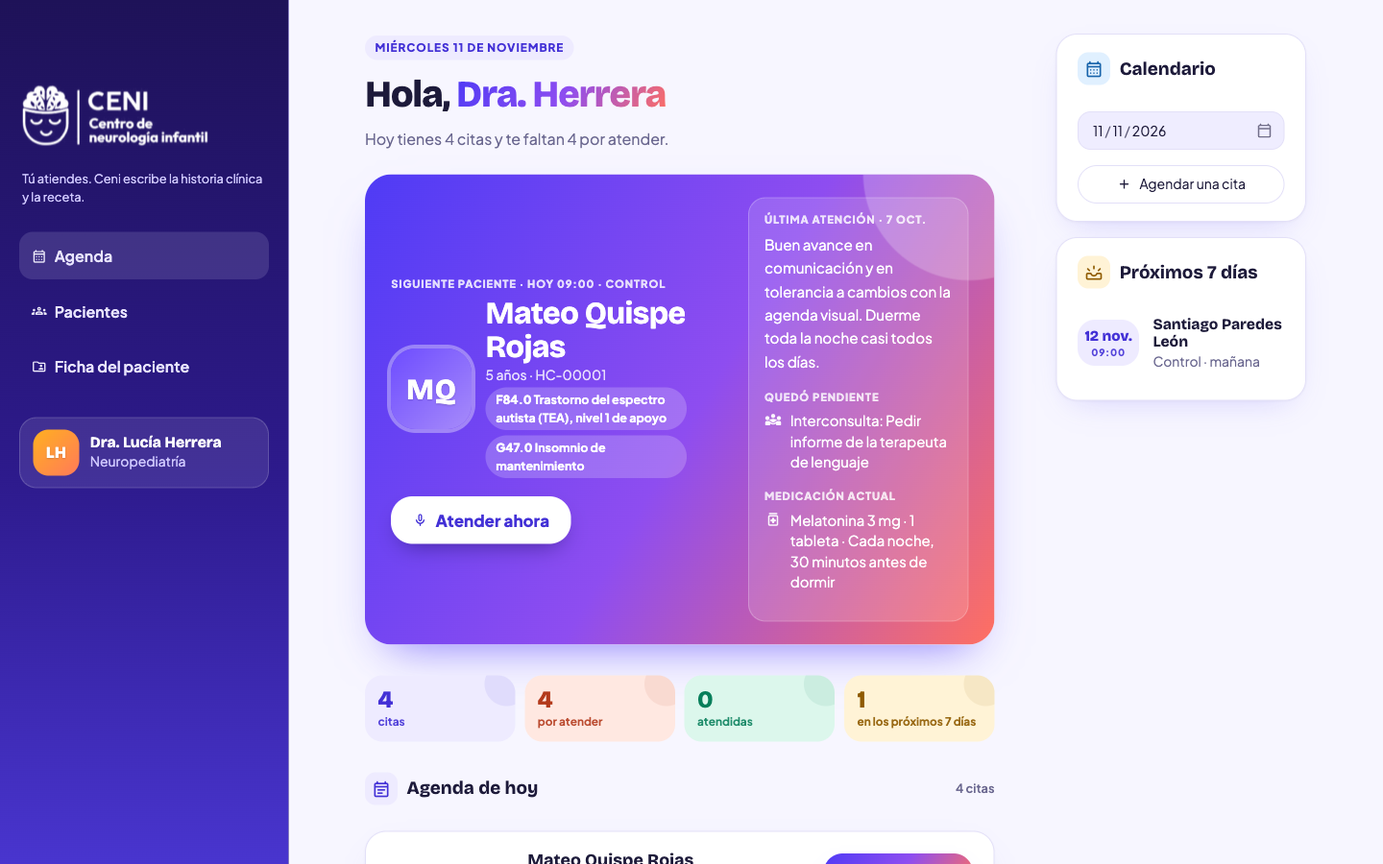
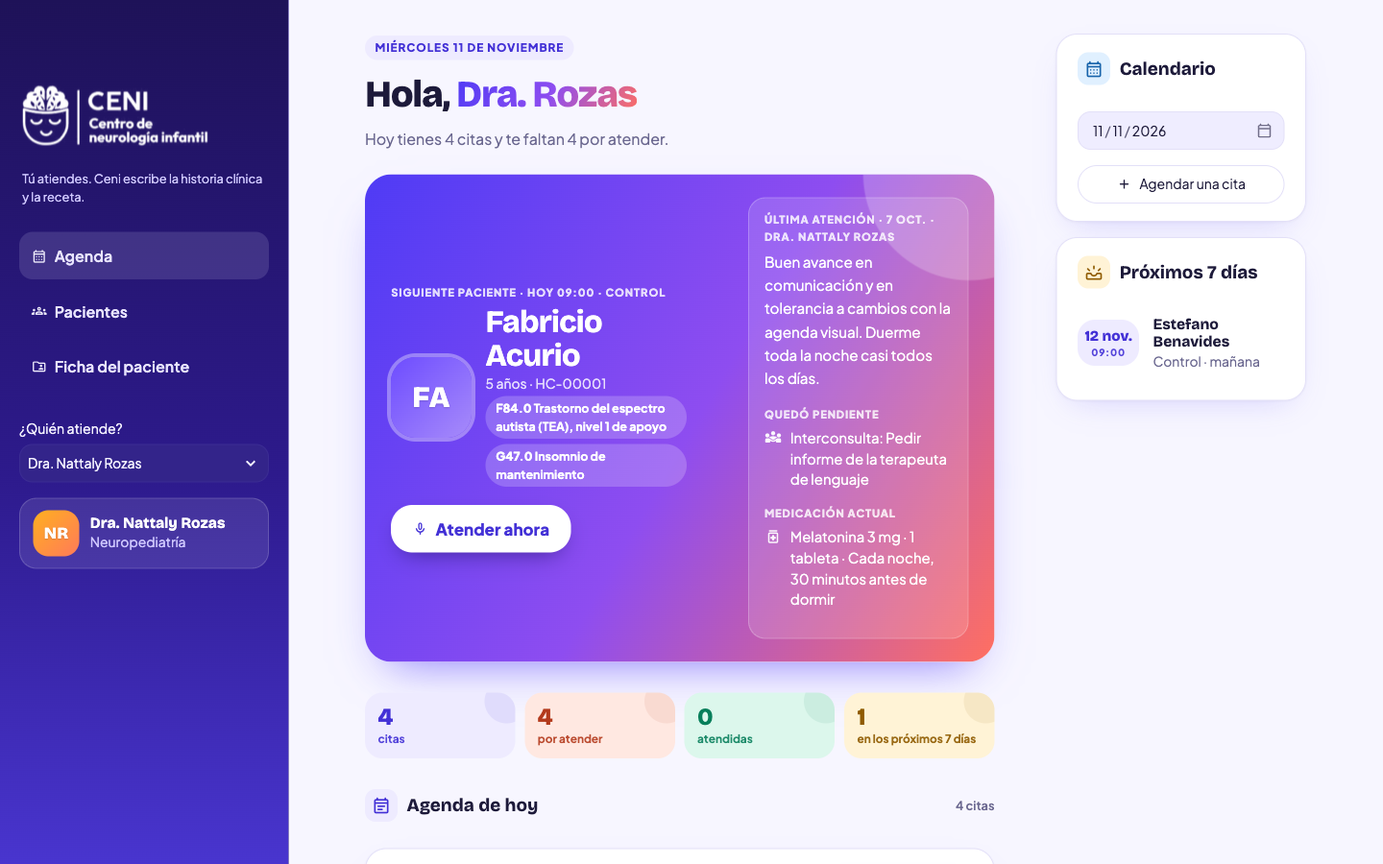
Dos profesionales con su agenda (neuropediatra y odontólogo para pacientes especiales) y nombres nuevos
- La barra lateral elige quién atiende; las citas tienen medico_id y la
  historia clínica es una sola para todo el centro.
- La IA recibe la especialidad de quien atiende y el vocabulario para
  Whisper sale de cada profesional.
- El borrador recuerda de quién es: al cambiar de profesional se oculta,
  no se borra.
- Pacientes, guiones y capturas con los nombres nuevos (todos inventados).

diff --git a/backend/db.py b/backend/db.py
@@ -5,7 +5,7 @@ Tablas:
 - historias: la historia clínica acumulada de cada paciente (JSON validado por Pydantic).
 - atenciones: cada consulta, con su transcripción, su nota, su receta (JSON),
   quién la firmó y cuándo, y cuándo autorizó la familia la grabación.
-- citas: la agenda del médico.
+- citas: la agenda de cada profesional del centro (medico_id).
 - transcripciones: registro de cada vez que se procesa una consulta (para el límite semanal).
 
 Al arrancar, si la base no existe, se crea con los pacientes inventados de
@@ -24,7 +24,7 @@ CARPETA_DATOS = Path(__file__).resolve().parent.parent / "data"
 RUTA_DB = CARPETA_DATOS / "ceni.db"
 RUTA_SEMILLA = CARPETA_DATOS / "semilla.json"
 
-VERSION_ESQUEMA = 2  # súbela cuando cambien las tablas o los esquemas: la base se vuelve a crear
+VERSION_ESQUEMA = 3  # súbela cuando cambien las tablas o los esquemas: la base se vuelve a crear
 LIMITE_SEMANAL = 10  # transcripciones por paciente en los últimos 7 días
 ESTADOS_CITA = ["Programada", "Atendida", "No asistió"]
 
@@ -62,7 +62,8 @@ CREATE TABLE IF NOT EXISTS citas (
     fecha TEXT NOT NULL,
     hora TEXT NOT NULL,
     tipo TEXT NOT NULL,            -- Primera vez / Control
-    estado TEXT NOT NULL DEFAULT 'Programada'
+    estado TEXT NOT NULL DEFAULT 'Programada',
+    medico_id INTEGER NOT NULL DEFAULT 1   -- de quién es la cita (ver "medicos" en la semilla)
 );
 CREATE TABLE IF NOT EXISTS transcripciones (
     id INTEGER PRIMARY KEY AUTOINCREMENT,
@@ -103,7 +104,7 @@ def crear_base(desde_cero: bool = False) -> None:
 
 def _cargar_semilla(con: sqlite3.Connection) -> None:
     semilla = _semilla()
-    medico = semilla["medico"]["nombre"]
+    medico = semilla["medicos"][0]["nombre"]  # las atenciones previas son de neuropediatría
     for p in semilla["pacientes"]:
         con.execute(
             f"INSERT INTO pacientes (id, {', '.join(CAMPOS_PACIENTE)}) VALUES (?, {', '.join('?' * len(CAMPOS_PACIENTE))})",
@@ -124,14 +125,19 @@ def _cargar_semilla(con: sqlite3.Connection) -> None:
     hoy = date.today()
     for c in semilla["citas"]:  # relativas a hoy, para que la agenda del demo nunca esté vacía
         con.execute(
-            "INSERT INTO citas (paciente_id, fecha, hora, tipo) VALUES (?, ?, ?, ?)",
-            (c["paciente_id"], (hoy + timedelta(days=c["en_dias"])).isoformat(), c["hora"], c["tipo"]),
+            "INSERT INTO citas (paciente_id, fecha, hora, tipo, medico_id) VALUES (?, ?, ?, ?, ?)",
+            (c["paciente_id"], (hoy + timedelta(days=c["en_dias"])).isoformat(), c["hora"], c["tipo"], c["medico_id"]),
         )
 
 
-def medico() -> dict:
-    """El médico que usa el sistema (en el demo, uno inventado)."""
-    return _semilla()["medico"]
+def medicos() -> list[dict]:
+    """Los profesionales del centro que usan Ceni (en el demo, vienen de la semilla)."""
+    return _semilla()["medicos"]
+
+
+def medico(medico_id: int = 1) -> dict:
+    """Un profesional por su id. Si no existe, el primero."""
+    return next((m for m in medicos() if m["id"] == medico_id), medicos()[0])
 
 
 def _receta_json(receta: list[Medicamento]) -> str:
@@ -234,7 +240,7 @@ def atenciones_de(paciente_id: int) -> list[dict]:
 def guardar_atencion(
     paciente_id: int, fecha: date, transcripcion: str, nota: NotaAtencion, receta: list[Medicamento],
     historia: HistoriaClinica, firmado_por: str, consentimiento_en: str | None, cita_id: int | None = None,
-    proxima_cita: tuple[date, str] | None = None,
+    proxima_cita: tuple[date, str] | None = None, medico_id: int = 1,
 ) -> int:
     """Guarda la atención firmada, actualiza la historia y la agenda, todo en una sola transacción.
 
@@ -257,22 +263,22 @@ def guardar_atencion(
             con.execute("UPDATE citas SET estado = 'Atendida' WHERE id = ?", (cita_id,))
         if proxima_cita:
             con.execute(
-                "INSERT INTO citas (paciente_id, fecha, hora, tipo) VALUES (?, ?, ?, 'Control')",
-                (paciente_id, proxima_cita[0].isoformat(), proxima_cita[1]),
+                "INSERT INTO citas (paciente_id, fecha, hora, tipo, medico_id) VALUES (?, ?, ?, 'Control', ?)",
+                (paciente_id, proxima_cita[0].isoformat(), proxima_cita[1], medico_id),
             )
     return cursor.lastrowid
 
 
 # --- Agenda -----------------------------------------------------------------------
 
-def citas_entre(desde: date, hasta: date) -> list[dict]:
-    """Citas entre dos fechas (incluidas), con el nombre, la edad y los diagnósticos del paciente."""
+def citas_entre(desde: date, hasta: date, medico_id: int) -> list[dict]:
+    """Citas de un profesional entre dos fechas (incluidas), con el nombre, la edad y los diagnósticos del paciente."""
     with conectar() as con:
         filas = con.execute(
             """SELECT c.*, p.nombre, p.fecha_nacimiento, h.historia_json
                FROM citas c JOIN pacientes p ON p.id = c.paciente_id JOIN historias h ON h.paciente_id = p.id
-               WHERE c.fecha BETWEEN ? AND ? ORDER BY c.fecha, c.hora""",
-            (desde.isoformat(), hasta.isoformat()),
+               WHERE c.fecha BETWEEN ? AND ? AND c.medico_id = ? ORDER BY c.fecha, c.hora""",
+            (desde.isoformat(), hasta.isoformat(), medico_id),
         ).fetchall()
     return [_con_historia(dict(f)) for f in filas]
 
@@ -283,11 +289,11 @@ def obtener_cita(cita_id: int) -> dict | None:
     return dict(fila) if fila else None
 
 
-def crear_cita(paciente_id: int, fecha: date, hora: str, tipo: str) -> None:
+def crear_cita(paciente_id: int, fecha: date, hora: str, tipo: str, medico_id: int) -> None:
     with conectar() as con:
         con.execute(
-            "INSERT INTO citas (paciente_id, fecha, hora, tipo) VALUES (?, ?, ?, ?)",
-            (paciente_id, fecha.isoformat(), hora, tipo),
+            "INSERT INTO citas (paciente_id, fecha, hora, tipo, medico_id) VALUES (?, ?, ?, ?, ?)",
+            (paciente_id, fecha.isoformat(), hora, tipo, medico_id),
         )
 
 
@@ -296,13 +302,13 @@ def cambiar_estado_cita(cita_id: int, estado: str) -> None:
         con.execute("UPDATE citas SET estado = ? WHERE id = ?", (estado, cita_id))
 
 
-def proxima_cita_de(paciente_id: int) -> dict | None:
-    """La próxima cita programada del paciente, desde hoy."""
+def proxima_cita_de(paciente_id: int, medico_id: int) -> dict | None:
+    """La próxima cita programada del paciente con este profesional, desde hoy."""
     with conectar() as con:
         fila = con.execute(
-            """SELECT * FROM citas WHERE paciente_id = ? AND estado = 'Programada' AND fecha >= ?
+            """SELECT * FROM citas WHERE paciente_id = ? AND medico_id = ? AND estado = 'Programada' AND fecha >= ?
                ORDER BY fecha, hora LIMIT 1""",
-            (paciente_id, date.today().isoformat()),
+            (paciente_id, medico_id, date.today().isoformat()),
         ).fetchone()
     return dict(fila) if fila else None
 

diff --git a/app/ficha.py b/app/ficha.py
@@ -97,8 +97,8 @@ paciente_id = st.session_state["paciente_id"]  # lo cambia el selector de abajo 
 paciente = db.obtener_paciente(paciente_id)
 historia, actualizada = db.historia_de(paciente_id)
 atenciones = db.atenciones_de(paciente_id)  # de la más reciente a la más antigua
-medico = db.medico()
-proxima = db.proxima_cita_de(paciente_id)
+medico = db.medico(st.session_state.get("medico_id", 1))  # quién atiende, elegido en la barra lateral
+proxima = db.proxima_cita_de(paciente_id, medico["id"])
 
 
 def receta_pdf(a: dict) -> bytes:
@@ -109,10 +109,11 @@ def receta_pdf(a: dict) -> bytes:
 
 # Si venimos de "Atender" en la agenda, la atención queda enlazada a esa cita.
 cita = db.obtener_cita(st.session_state["cita_id"]) if st.session_state.get("cita_id") else None
-if not cita or cita["paciente_id"] != paciente_id or cita["estado"] != "Programada":
+if not cita or cita["paciente_id"] != paciente_id or cita["estado"] != "Programada" or cita["medico_id"] != medico["id"]:
     cita = None
 borrador = st.session_state.get("borrador")
-if borrador and borrador["paciente_id"] != paciente_id:
+# El borrador es de un paciente y de quien lo grabó: con otro paciente u otro profesional no se muestra (ni se borra).
+if borrador and (borrador["paciente_id"] != paciente_id or borrador["medico_id"] != medico["id"]):
     borrador = None
 
 with st.container(key="heroe-paciente"):
@@ -133,7 +134,7 @@ with st.container(key="heroe-paciente"):
 firmada = st.session_state.get("recien_firmada")
 if firmada and firmada["paciente_id"] == paciente_id:
     atencion_firmada = next((a for a in atenciones if a["id"] == firmada["atencion_id"]), None)
-    siguiente = next((c for c in db.citas_entre(date.today(), date.today())
+    siguiente = next((c for c in db.citas_entre(date.today(), date.today(), medico["id"])
                       if c["estado"] == "Programada" and c["paciente_id"] != paciente_id), None)
     with st.container(key="listo-firmada"):
         estilo.html(
@@ -232,19 +233,20 @@ with nueva_tab:
                             archivo = grabado or subido
                             audio, nombre_archivo = archivo.getvalue(), archivo.name
                         vocabulario = (
-                            f"Consulta de neuropediatría de {paciente['nombre']} con {medico['nombre']}. "
+                            f"Consulta de {medico['especialidad'].lower()} de {paciente['nombre']} con {medico['nombre']}. "
                             f"Diagnósticos: {', '.join(d.descripcion for d in historia.diagnosticos)}. "
-                            "Melatonina, metilfenidato, risperidona, TEA, TDAH, terapia ocupacional, pictogramas."
+                            f"{medico['vocabulario']}"
                         )
                         texto = transcribir(audio, nombre_archivo, vocabulario)
                     else:
                         texto = escrito.strip()
                     st.write("Armando la nota, la receta y la historia clínica…")
-                    resultado = procesar_atencion(texto, paciente, historia)
+                    resultado = procesar_atencion(texto, paciente, historia, medico)
                     estado.update(label="Listo. Revisa y firma.", state="complete", expanded=False)
                 st.session_state["borrador"] = borrador = {
                     "id": st.session_state["usos_ia"],  # cambia en cada proceso: reinicia el formulario
                     "paciente_id": paciente_id,
+                    "medico_id": medico["id"],
                     "transcripcion": texto,
                     "resultado": resultado,
                     "consentimiento_en": datetime.now().isoformat(timespec="seconds"),
@@ -378,6 +380,7 @@ with nueva_tab:
                 firmado_por=medico["nombre"], consentimiento_en=borrador["consentimiento_en"],
                 cita_id=cita["id"] if cita else None,
                 proxima_cita=(fecha_control, hora_control.strftime("%H:%M")) if agendar else None,
+                medico_id=medico["id"],
             )
             st.session_state["recien_firmada"] = {
                 "paciente_id": paciente_id,

diff --git a/ai/prompts.py b/ai/prompts.py
@@ -3,13 +3,14 @@
 Están separadas del código para poder leerlas y ajustarlas sin tocar la lógica.
 """
 
-ATENCION_SISTEMA = """Eres el asistente de documentación de Ceni, un sistema para neuropediatras en el Perú que atienden a niños con autismo (TEA), TDAH y otras condiciones del neurodesarrollo.
-Recibes la transcripción de una consulta completa (conversación entre el médico, la familia y a veces el niño, sin marcas de quién habla) y devuelves tres cosas: la nota de la atención, la receta y lo nuevo para la historia clínica.
+ATENCION_SISTEMA = """Eres el asistente de documentación de Ceni, un sistema para centros de neurología infantil en el Perú. Lo usan neuropediatras y otros profesionales del centro (por ejemplo, odontología para pacientes especiales) que atienden a niños con autismo (TEA), TDAH y otras condiciones del neurodesarrollo.
+Recibes la transcripción de una consulta completa (conversación entre el profesional, la familia y a veces el niño, sin marcas de quién habla) y devuelves tres cosas: la nota de la atención, la receta y lo nuevo para la historia clínica.
 
 Reglas:
 - Deduce quién habla por el contexto. Usa solo lo que se dijo en la consulta. No inventes síntomas, hallazgos, cifras, diagnósticos, medicamentos ni dosis. Si algo no se mencionó, deja la lista vacía, el texto vacío o el número en null.
 - Ceni documenta, no diagnostica ni receta: los diagnósticos y la receta salen solo de lo que dijo el médico.
 - La nota sigue el formato de consulta externa del MINSA: motivo de consulta, tiempo de enfermedad, relato, funciones biológicas (apetito, sed, sueño, orina, deposiciones, estado de ánimo), funciones vitales y antropometría, examen físico y neurológico, diagnósticos, plan de trabajo (exámenes auxiliares, interconsultas y terapias, indicaciones) y próximo control.
+- Adapta la nota a la especialidad del profesional que atiende: en el examen escribe el que hizo (neurológico, bucal u otro). No llenes campos de otra especialidad.
 - Funciones biológicas: escribe lo que contó la familia en pocas palabras. Pon "Conservado" solo si dijeron que está bien. Si no se habló de una, déjala vacía.
 - Signos vitales: solo números que se dijeron en voz alta (peso en kg, talla en cm, perímetro cefálico en cm, temperatura, frecuencias). No calcules el IMC: lo calcula el sistema.
 - Diagnósticos: escribe cada uno como lo dijo el médico y elige su código del catálogo CIE-10 del esquema (vacío si ninguno corresponde). Tipo: "P" si el médico lo dijo como sospecha ("probable", "a descartar"); "R" si ya está como diagnóstico en la historia clínica y se mantiene; "D" si lo confirma hoy por primera vez. Nunca agregues un diagnóstico que el médico no dijo.

diff --git a/app/agenda.py b/app/agenda.py
@@ -1,4 +1,4 @@
-"""Página de inicio: la agenda del médico.
+"""Página de inicio: la agenda del profesional que atiende (se elige en la barra lateral).
 
 Arriba está el siguiente paciente, con lo que el médico necesita recordar antes
 de verlo (la última atención, lo que quedó pendiente y su medicación). Al
@@ -40,7 +40,7 @@ def agendar(dia_sugerido: date) -> None:
         a_las = hora_col.time_input("Hora", value=time(9, 0), step=timedelta(minutes=20))
         tipo = st.segmented_control("Tipo", ["Control", "Primera vez"], default="Control")
         if st.form_submit_button("Agendar", type="primary", icon=":material/event_available:", width="stretch"):
-            db.crear_cita(paciente_id, fecha, a_las.strftime("%H:%M"), tipo or "Control")
+            db.crear_cita(paciente_id, fecha, a_las.strftime("%H:%M"), tipo or "Control", medico["id"])
             st.session_state["aviso_agenda"] = (
                 f"Cita agendada: {nombres[paciente_id]}, {dia_texto(fecha)} a las {a_las:%H:%M}."
             )
@@ -48,7 +48,7 @@ def agendar(dia_sugerido: date) -> None:
 
 
 st.session_state.pop("recien_firmada", None)  # el aviso de "atención firmada" solo se ve en la ficha
-medico = db.medico()
+medico = db.medico(st.session_state.get("medico_id", 1))  # quién atiende, elegido en la barra lateral
 nombre = medico["nombre"].split()
 hoy = date.today()
 
@@ -64,7 +64,7 @@ with lateral:
 
     with st.container(key="tarjeta-proximas"):
         estilo.html(estilo.titulo("Próximos 7 días", "upcoming", "sol"))
-        proximas = db.citas_entre(dia + timedelta(days=1), dia + timedelta(days=7))
+        proximas = db.citas_entre(dia + timedelta(days=1), dia + timedelta(days=7), medico["id"])
         filas = "".join(
             f'<div class="ceni-persona" style="margin-bottom:.75rem">'
             f'<div class="ceni-hora" style="{estilo.tono_css(TONO_TIPO.get(c["tipo"], "violeta"))};font-size:.95rem;min-width:64px">'
@@ -77,7 +77,7 @@ with lateral:
 
 # --- Columna principal: saludo, siguiente paciente y citas del día --------------------
 with principal:
-    citas = db.citas_entre(dia, dia)
+    citas = db.citas_entre(dia, dia, medico["id"])
     siguiente = next((c for c in citas if c["estado"] == "Programada"), None)
     por_atender = sum(c["estado"] == "Programada" for c in citas)
     estilo.encabezado(

diff --git a/streamlit_app.py b/streamlit_app.py
@@ -1,7 +1,7 @@
 """Punto de entrada de Ceni: `streamlit run streamlit_app.py`.
 
 Prepara la clave y la base de datos, aplica el estilo, dibuja la barra
-lateral (logo, menú y médico) y decide qué página mostrar.
+lateral (logo, menú y quién atiende) y decide qué página mostrar.
 """
 
 import os
@@ -47,6 +47,10 @@ if "reiniciar" in st.query_params:
     st.session_state.clear()
     st.query_params.clear()
 
+# Color del avatar de cada profesional en la barra lateral.
+AVATAR_MEDICO = {1: "#FFB020,#FF7A59", 2: "#38D9A9,#4DABF7"}
+
+
 paginas = [
     st.Page("app/agenda.py", title="Agenda", icon=":material/calendar_month:", default=True),
     st.Page("app/pacientes.py", title="Pacientes", icon=":material/groups:"),
@@ -61,11 +65,15 @@ with st.sidebar:
     for p in paginas:
         st.page_link(p, width="stretch")
     st.write("")
-    medico = db.medico()
+    # Cada profesional del centro tiene su agenda y firma sus atenciones; la historia clínica es una sola.
+    profesionales = {m["id"]: m for m in db.medicos()}
+    st.selectbox("¿Quién atiende?", list(profesionales), format_func=lambda i: profesionales[i]["nombre"],
+                 key="medico_id")
+    medico = profesionales[st.session_state["medico_id"]]
     nombre = medico["nombre"].split()
     estilo.html(
         '<div class="ceni-medico">'
-        '<div class="ceni-avatar" style="background:linear-gradient(135deg,#FFB020,#FF7A59)">'
+        f'<div class="ceni-avatar" style="background:linear-gradient(135deg,{AVATAR_MEDICO.get(medico["id"], "#FFB020,#FF7A59")})">'
         f'{nombre[1][0]}{nombre[-1][0]}</div>'
         f'<div><div class="ceni-nombre" style="font-size:.98rem">{medico["nombre"]}</div>'
         f'<div class="ceni-meta">{medico["especialidad"]}</div></div></div>'

diff --git a/app/formato.py b/app/formato.py
@@ -235,7 +235,8 @@ def antes_de_empezar_html(atenciones: list[dict], historia: HistoriaClinica, max
         if maximo and len(lista_pendientes) > maximo:
             lista_pendientes = lista_pendientes[:maximo] + [("more_horiz", "gris", f"y {len(lista_pendientes) - maximo} más")]
         partes = [
-            estilo.bloque(f"Última atención · {fecha_corta(ultima['fecha'])}", estilo.texto(ultima["nota"].resumen)),
+            estilo.bloque(f"Última atención · {fecha_corta(ultima['fecha'])} · {ultima['firmado_por']}",
+                          estilo.texto(ultima["nota"].resumen)),
             estilo.bloque("Quedó pendiente", estilo.items(lista_pendientes)),
             estilo.bloque("Medicación actual", estilo.items(medicacion(ultima["receta"]), "Sin medicación")),
         ]

diff --git a/ai/generar.py b/ai/generar.py
@@ -10,9 +10,10 @@ from ai.esquemas import HistoriaClinica, ResultadoAtencion
 from ai.prompts import ATENCION_SISTEMA
 
 
-def procesar_atencion(transcripcion: str, paciente: dict, historia: HistoriaClinica) -> ResultadoAtencion:
+def procesar_atencion(transcripcion: str, paciente: dict, historia: HistoriaClinica, profesional: dict) -> ResultadoAtencion:
     """Una sola llamada al modelo: nota de la atención + receta + lo nuevo de la historia."""
     usuario = (
+        f"Profesional que atiende: {profesional['nombre']} ({profesional['especialidad']}).\n"
         f"Paciente: {paciente['nombre']}, {paciente['edad']}, {paciente['sexo']}. "
         f"Apoderado: {paciente['apoderado']}.\n\n"
         f"Historia clínica actual (JSON):\n{historia.model_dump_json(indent=1)}\n\n"

diff --git a/data/audios_demo/guiones.md b/data/audios_demo/guiones.md
@@ -7,9 +7,9 @@ La app las muestra en "¿Sin micrófono?", dentro de Nueva atención.
 No hace falta leerlas palabra por palabra: Ceni está hecha para la conversación real,
 con interrupciones y muletillas.
 
-## control-de-mateo.mp3 (unos 2 minutos)
+## control-de-fabricio.mp3 (unos 2 minutos)
 
-**Doctora:** Hola, señora Rosa, hola Mateo. ¿Cómo les fue este mes?
+**Doctora:** Hola, señora Rosa, hola Fabricio. ¿Cómo les fue este mes?
 
 **Mamá:** Bien, doctora. Ya duerme toda la noche, solo se despertó una vez en todo el mes.
 
@@ -25,22 +25,36 @@ con interrupciones y muletillas.
 
 **Mamá:** Con la agenda visual mejor. Tuvo una sola crisis, cuando cambiamos la ruta al nido. Ah, y tuvo una otitis hace dos semanas, le dieron antibiótico en la clínica.
 
-**Doctora:** Bien, lo anoto. A ver, Mateo, ¿me alcanzas el carro rojo? … Muy bien. Tiene buen contacto visual, responde a su nombre, sigue instrucciones. El examen neurológico está normal.
+**Doctora:** Bien, lo anoto. A ver, Fabricio, ¿me alcanzas el carro rojo? … Muy bien. Tiene buen contacto visual, responde a su nombre, sigue instrucciones. El examen neurológico está normal.
 
 **Doctora:** Entonces, como ya duerme bien, vamos a bajar la melatonina a uno coma cinco miligramos, media tableta, cada noche, por un mes. Si vuelve a despertarse, me avisa. Seguimos con lenguaje dos veces por semana y ocupacional una vez. Le voy a pedir el informe de la terapeuta de lenguaje. Nos vemos en dos meses.
 
 **Mamá:** Perfecto, doctora. Gracias.
 
-## control-de-valentina.mp3 (unos 90 segundos)
+## control-de-antonella.mp3 (unos 90 segundos)
 
-**Doctor:** Buenas tardes, señor Jorge. ¿Cómo va Valentina con la pastilla?
+**Doctora:** Buenas tardes, señor Jorge. ¿Cómo va Antonella con la pastilla?
 
 **Papá:** Bien, doctor. La profesora dice que ahora termina casi todas las tareas. Solo en matemáticas se demora.
 
-**Doctor:** ¿Y el apetito? ¿El sueño?
+**Doctora:** ¿Y el apetito? ¿El sueño?
 
 **Papá:** Al almuerzo come un poco menos, pero en la cena come bien. Duerme bien.
 
-**Doctor:** A ver, Valentina, súbete a la balanza… Veintiséis kilos, subió medio kilo. Presión normal. Está atenta, conversa bien.
+**Doctora:** A ver, Antonella, súbete a la balanza… Veintiséis kilos, subió medio kilo. Presión normal. Está atenta, conversa bien.
 
-**Doctor:** Vamos a continuar con el metilfenidato de liberación prolongada de dieciocho miligramos, una tableta en el desayuno, solo los días de colegio, por dos meses. No la parta ni la mastique. Mantengan la rutina también el fin de semana. Tráigame el informe de la tutora para el próximo control, en dos meses.
+**Doctora:** Vamos a continuar con el metilfenidato de liberación prolongada de dieciocho miligramos, una tableta en el desayuno, solo los días de colegio, por dos meses. No la parta ni la mastique. Mantengan la rutina también el fin de semana. Tráigame el informe de la tutora para el próximo control, en dos meses.
+
+## odontologia-de-antonella.mp3 (unos 60 segundos, con el Dr. Pumayali)
+
+Sirve para mostrar la agenda del odontólogo y la alerta de alergia: Antonella tiene registrada
+alergia a la amoxicilina en su historia clínica (la anotó la neuropediatra).
+
+**Doctor:** Hola, señor Jorge. Hola, Antonella. La doctora Rozas me la derivó para una evaluación.
+
+**Papá:** Sí, doctor. Le cuesta mucho que le cepillen los dientes, y se queja de una muela.
+
+**Doctor:** Antonella, mira esta tarjeta: primero contamos los dientes, después el espejito. ¿Vamos? … Muy bien. Tiene una caries en la primera molar inferior derecha y placa en las muelas de atrás. Las encías están un poco inflamadas.
+
+**Doctor:** Hoy le aplico barniz de flúor. Para la muela, si le duele, le da amoxicilina de doscientos cincuenta miligramos cada ocho horas por cinco días, y paracetamol en jarabe si tiene dolor. Cepillado con pasta con flúor dos veces al día, con el reloj de arena de dos minutos. Regresa en tres semanas para curar la caries.
+

diff --git a/CLAUDE.md b/CLAUDE.md
@@ -16,6 +16,7 @@
 - **Campos de la consulta (9 de noviembre, tras revisar el SIHCE del MINSA y la NTS 139):** la nota sigue el formato de consulta externa: motivo y tiempo de enfermedad, relato, funciones biológicas (apetito, sed, sueño, orina, deposiciones, estado de ánimo), funciones vitales y antropometría (peso, talla, perímetro cefálico, T°, FC, FR; el IMC lo calcula el código), examen físico y neurológico, diagnósticos CIE-10 con tipo D/P/R (como el HIS), tratamiento (receta con cantidad) y plan de trabajo (exámenes auxiliares, interconsultas y terapias, indicaciones). La historia clínica incluye inmunizaciones.
 - **Diseño (10 de noviembre, versión más viva):** violeta eléctrico #5B47FB con degradado hacia coral, y tonos coral, menta, sol, cielo y rosa; tipografía Bricolage Grotesque (títulos) y Plus Jakarta Sans (texto) en `.streamlit/config.toml`. Barra lateral oscura con el logo en blanco (`assets/logo-blanco.png`). CSS y componentes en `app/estilo.py` (tarjetas `tarjeta-*`, `heroe-*` con degradado y `listo-*` en menta). Para volver a los datos del demo se abre la app con `?reiniciar`.
 - **Experiencia del médico (10 de noviembre):** la agenda destaca al siguiente paciente con un resumen previo (última atención, lo que quedó pendiente, medicación y alergias); la ficha muestra ese mismo resumen al lado de la grabadora; con el borrador listo, la grabadora se pliega; al firmar aparece la tarjeta "Atención firmada" con los tiempos reales (cuánto tardó la IA y cuánto tardó el médico en revisar), la receta en PDF y el botón al siguiente paciente. Las pestañas de la ficha usan `on_change="rerun"` para poder abrirlas desde el código.
+- **Profesionales (11 de noviembre):** el demo tiene dos: la Dra. Nattaly Rozas (neuropediatría) y el Dr. Juan Carlos Pumayali (odontología para pacientes especiales). Están en "medicos" de `data/semilla.json`. En la barra lateral se elige quién atiende (`st.session_state["medico_id"]`): cada uno ve su agenda (`citas.medico_id`) y firma sus atenciones, y la historia clínica es una sola. El borrador guarda su `medico_id`: con otro profesional se oculta, pero no se borra. Pacientes inventados: Fabricio Acurio, Antonella Carpio, Matias Umeres, Camila Flores Ccori y Estefano Benavides.
 - **Fuera del MVP:** plan de objetivos, gráfico de evolución, informe para padres, recordatorios por WhatsApp, reserva en línea, firma digital con certificado, facturación SUNAT, RENHICE.
 - **Límites:** máximo 10 transcripciones por paciente en 7 días; 20 usos de IA por visitante.
 - **API de modelos:** OpenAI. `whisper-1` para transcribir (es Whisper, herramienta del curso) y un modelo de chat con salidas estructuradas (`chat.completions.parse`).

diff --git a/README.md b/README.md
@@ -41,6 +41,10 @@ Notas de las 3 conversaciones con usuarios potenciales:
 
 Antes de cada paciente, Ceni muestra lo que el médico necesita recordar: qué pasó en la última atención, qué quedó pendiente, la medicación actual y las alergias.
 
+**Un centro, varios profesionales.** En la barra lateral se elige quién atiende: la neuropediatra o el odontólogo para pacientes especiales. Cada uno tiene su agenda y firma sus atenciones, pero la historia clínica del niño es una sola. Así el odontólogo ve la medicación, las alergias y la derivación que dejó la neuropediatra antes de atenderlo.
+
+![Agenda del odontólogo: su siguiente paciente con la alergia y la derivación que registró la neuropediatra](docs/capturas/4-odontologo.png)
+
 > **Insight. Pendiente (lo escribe Melina):** lo que entendí del problema que otros no ven.
 
 ## 5. Why now
@@ -163,6 +167,7 @@ Este proyecto se construyó con **Claude Code** (Claude, de Anthropic).
 - el alcance: grabar la consulta y obtener la historia clínica, la nota y la receta para que el médico revise y firme. Descarté el plan de objetivos, los gráficos de evolución y el informe para los padres;
 - seguir el formato de consulta externa del MINSA;
 - el límite de 10 transcripciones por paciente cada 7 días;
+- sumar al odontólogo para pacientes especiales, con su propia agenda y la misma historia clínica;
 - la marca y el pedido de rediseño;
 - las entrevistas con usuarios y la revisión del código para poder explicarlo y cambiarlo.
 
